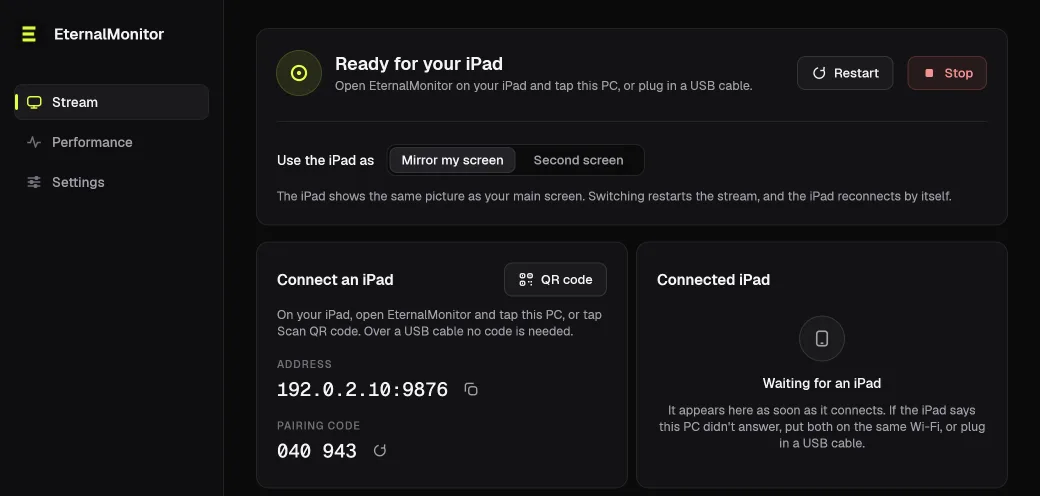
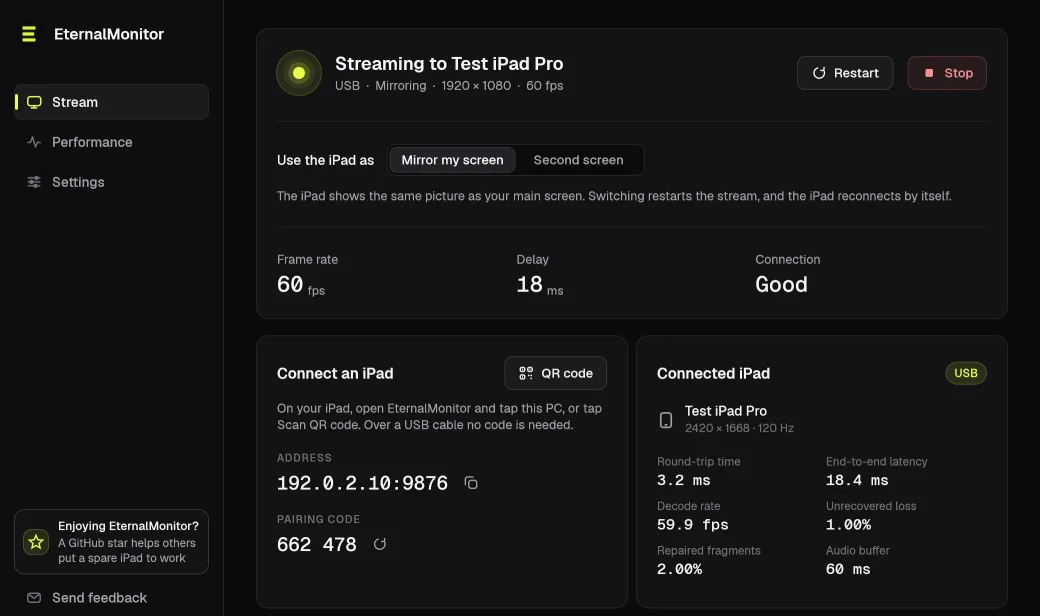
Show the hero PC streaming to the iPad it is linked to
The hero paired a PC waiting for an iPad with an iPad already live on Wi-Fi. The Windows app is now its streaming render, cropped above the rows below its cards, and the iPad shows the PC's picture without its transport bar, so neither side contradicts the other. The share card is rebuilt from the same two images with the new headline, and the README describes it.

diff --git a/docs/index.html b/docs/index.html
@@ -83,14 +83,14 @@
           </p>
         </div>
 
-        <figure class="stage" aria-label="The Windows app on a PC, linked over USB or Wi-Fi to the iPad app showing the PC's picture">
+        <figure class="stage" aria-label="The Windows app streaming over USB or Wi-Fi to the iPad, which shows the PC's picture">
           <div class="stage-pc">
             <div class="pc-window">
               <div class="pc-titlebar" aria-hidden="true">
                 <span class="t"><img src="assets/icon.png" alt="" width="14" height="14">EternalMonitor</span>
                 <span class="wc"><svg viewBox="0 0 10 10" stroke="currentColor" stroke-width="1"><path d="M1 5h8"/></svg><svg viewBox="0 0 10 10" fill="none" stroke="currentColor" stroke-width="1"><rect x="1.5" y="1.5" width="7" height="7"/></svg><svg viewBox="0 0 10 10" stroke="currentColor" stroke-width="1"><path d="M1.5 1.5l7 7M8.5 1.5l-7 7"/></svg></span>
               </div>
-              <img src="assets/hero-pc.webp" srcset="assets/hero-pc.webp 1040w, assets/hero-pc@2x.webp 2080w" sizes="(max-width: 720px) 92vw, 600px" width="2080" height="992" fetchpriority="high" decoding="async" alt="The Windows app's Stream page: Ready for your iPad, with Mirror my screen and Second screen, the PC's address and pairing code, and Send feedback in the sidebar.">
+              <img src="assets/hero-pc.webp" srcset="assets/hero-pc.webp 1040w, assets/hero-pc@2x.webp 2080w" sizes="(max-width: 720px) 92vw, 600px" width="2080" height="1233" fetchpriority="high" decoding="async" alt="The Windows app streaming to an iPad over USB, mirroring the screen at 60 fps, with the connected iPad's details, Send feedback and a GitHub star card in the sidebar.">
             </div>
           </div>
           <div class="stage-link" aria-hidden="true">
@@ -100,7 +100,7 @@
           <div class="stage-ipad">
             <div class="tablet">
               <div class="screen">
-                <img src="assets/ipad-live.webp" srcset="assets/ipad-live.webp 1180w, assets/ipad-live@2x.webp 2360w" sizes="(max-width: 720px) 70vw, 460px" width="2360" height="1520" decoding="async" alt="The iPad app showing the PC's picture full screen, with the Live, Keyboard, Fit, settings and Disconnect controls at the bottom.">
+                <img src="assets/hero-ipad.webp" srcset="assets/hero-ipad.webp 1009w, assets/hero-ipad@2x.webp 2018w" sizes="(max-width: 720px) 70vw, 460px" width="2018" height="1300" decoding="async" alt="The iPad showing the PC's picture full screen.">
               </div>
             </div>
           </div>

diff --git a/README.md b/README.md
@@ -18,7 +18,7 @@ and control the PC with touch, a keyboard or Apple Pencil.
 </div>
 
 <p align="center">
-  <img src="docs/assets/og.png" width="860" alt="The EternalMonitor Windows app ready for an iPad, beside the iPad app's Connect to your PC screen">
+  <img src="docs/assets/og.png" width="860" alt="The EternalMonitor Windows app streaming to an iPad, which shows the PC's picture">
 </p>
 
 EternalMonitor streams your Windows desktop to an iPad and sends your input back.
